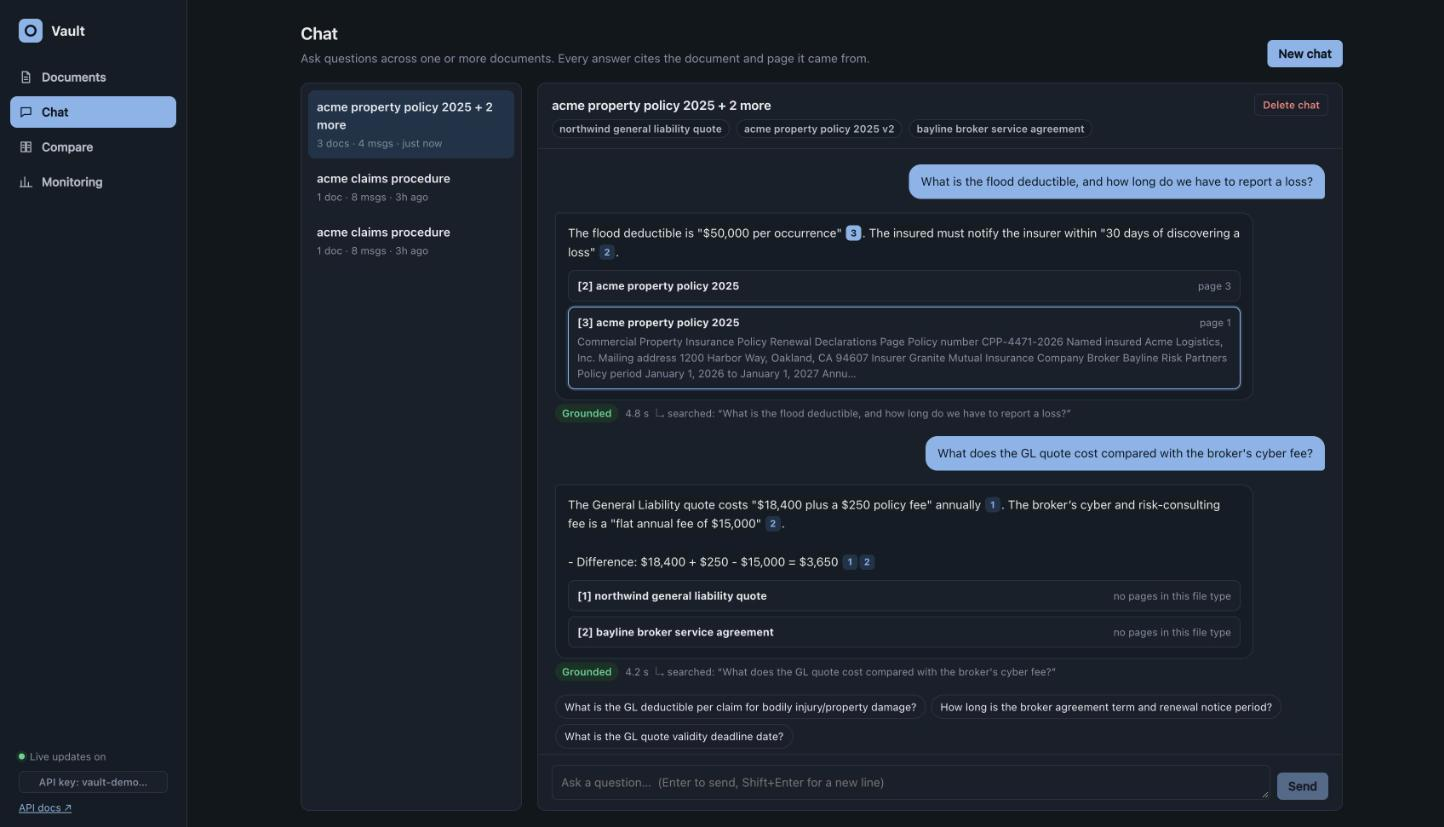
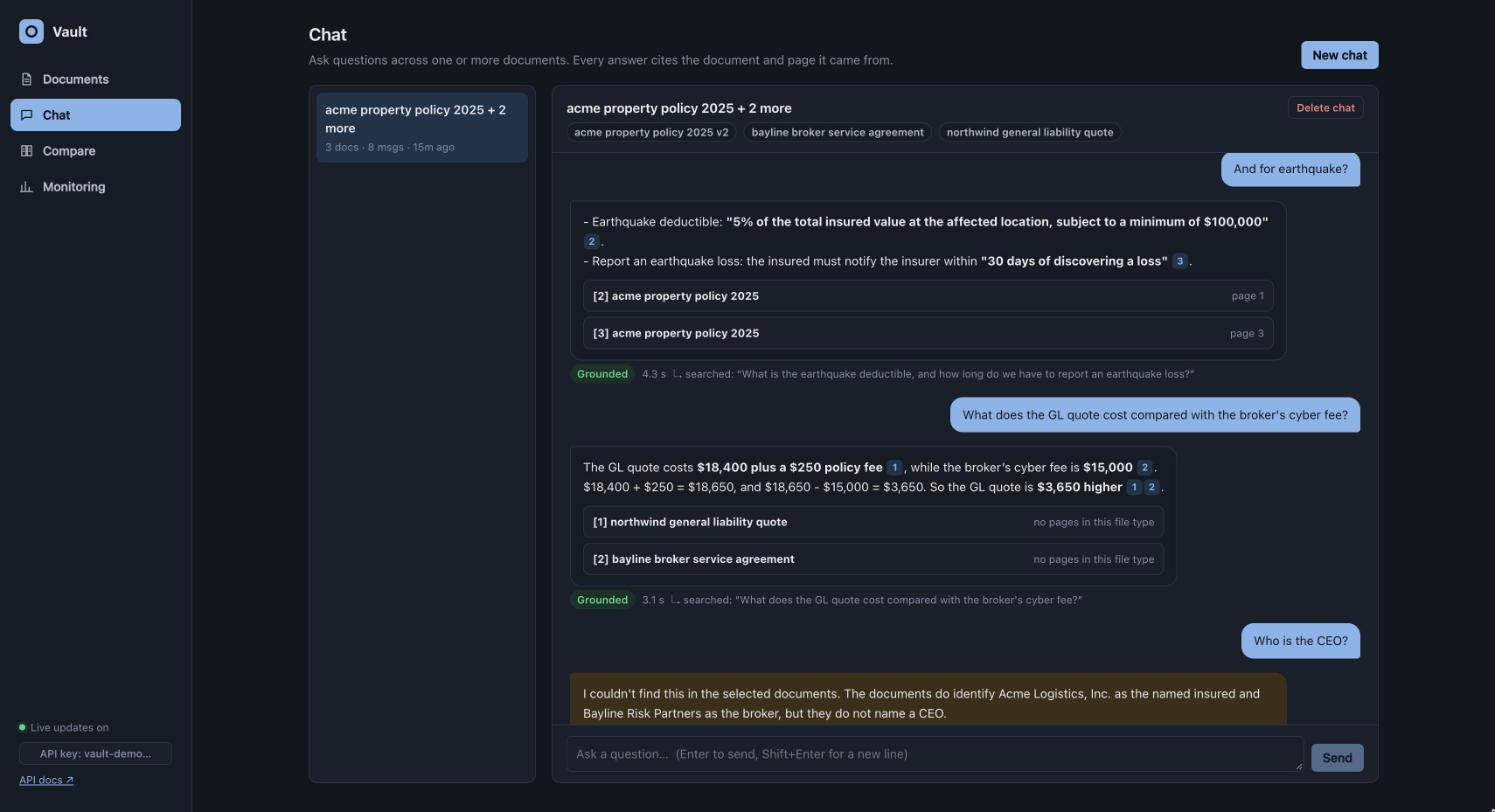
Docs: link the demo video, refresh the chat screenshot, stop tracking local caches

diff --git a/README.md b/README.md
@@ -17,6 +17,8 @@ Upload documents, get AI insights, and **chat with them in natural language, wit
 make up            # → UI on http://localhost:9700 · API docs on http://localhost:9700/docs · API key: vault-demo-key
 ```
 
+**Demo video (3 min):** [docs/demo.mp4](docs/demo.mp4): uploads and failures, insights, a new version, multi-turn chat with citations, comparison and monitoring, on the live app with real AI calls.
+
 ![Chat with citations](docs/screenshots/chat.png)
 
 More screenshots: [documents and insights](docs/screenshots/documents.png) · [comparison](docs/screenshots/compare.png) · [monitoring](docs/screenshots/monitoring.png)
@@ -109,7 +111,7 @@ make dev-ui       # terminal 3 (optional): UI dev server on :5173 with hot reloa
 | Start chat session · Ask question · Chat history · Multi-turn context | `POST /chat/sessions` (one or many documents) · `POST /messages` and `/messages/stream` · `GET /chat/sessions/{id}` · follow-ups rewritten into standalone questions using the last 6 turns |
 | Document statistics API · Processing metrics API | `GET /metrics/documents` (counts, success rate, p50/p95, per-stage timings, errors, queue wait), plus `/metrics/ai-usage`, `/metrics/api`, `/metrics/system` |
 | Data storage (metadata and status, insights, conversations, messages with citations, processing metrics, performance data) | `documents`, `document_insights` + `document_summaries`, `chat_sessions`, `chat_messages` (citations + retrieval trace), `processing_runs` + `processing_stage_runs`, `request_metrics` + `ai_usage` (§5) |
-| Demo | The five-minute tour above, and the demo video |
+| Demo | [The demo video](docs/demo.mp4) and the five-minute tour above |
 
 **Every bonus point:** multi-document chat · intelligent follow-up suggestions · summary customisation (length, focus, tone) · automated categorisation and tagging · sentiment and key-insight extraction · comparative analysis · a simple web UI · real-time updates over WebSocket · smart caching (embeddings and answers in Redis) · pgvector · streaming chat over SSE · 149 tests · cost tracking and optimisation · rate limiting and quotas · document version tracking · batch processing optimisations · structured logging and observability · health checks and monitoring endpoints. Where each lives:
 
@@ -461,7 +463,7 @@ The growth path beyond that (roughly 100k+ documents or many concurrent users), 
 | `make test` | 149 tests:<br/>• Units: parsing (incl. edge-case files), validation, chunking, RRF fusion, citation mapping, cost, the cache guard, the version change list<br/>• API integration on real Postgres + Redis: upload, duplicates, validation, failures, batch, versioning, download, summaries, reprocess, chat with citations, abstention, multi-turn, caches, SSE, follow-up checks, comparison, metrics, rate limits, body limits, job recovery, documented error responses | Free (fake AI) |
 | `make lint` | ruff + mypy, all passing | — |
 | `make smoke` | The full user journey against the real stack and model, with readable output | ≈ $0.03 |
-| `make eval` | 25 labelled questions over the samples:<br/>• answer accuracy<br/>• citation document and page accuracy<br/>• abstention accuracy (incl. off-topic and prompt injection)<br/>• multi-document questions and arithmetic over cited figures, including after earlier questions in the same chat<br/>• wrong amounts stated next to correct working<br/>• false-abstention rate<br/>• citation marks that lead nowhere<br/>• follow-ups that repeat the answer<br/>• latency and cost | ≈ $0.04 |
+| `make eval` | 25 labelled questions over the samples:<br/>• answer accuracy<br/>• citation document and page accuracy<br/>• abstention accuracy (incl. off-topic and prompt injection)<br/>• multi-document questions and arithmetic over cited figures, including after earlier questions in the same chat<br/>• wrong amounts stated next to correct working<br/>• false-abstention rate<br/>• citation marks that lead nowhere<br/>• follow-ups that repeat the answer<br/>• latency and cost | ≈ $0.05 |
 
 Every bug fix comes with a test that was first run against the old code and failed there.
 
@@ -493,7 +495,7 @@ backend/
   scripts/          entrypoint, sample generator, smoke test         evals/  RAG evaluation
 frontend/           React + Vite + TypeScript UI (built into the API image, served at /)
 samples/            sample documents (+ edge cases)
-docs/               screenshots
+docs/               screenshots and the demo video
 ```
 
 The rules are kept simple so changes are quick and safe (details in [AGENTS.md](AGENTS.md)):

diff --git a/AI_USAGE.md b/AI_USAGE.md
@@ -56,7 +56,7 @@ An AI agent writes code fast, so the controls were about making sure that code i
 7. **Real stack, not only mocks:** each slice was run against Postgres, Redis, the worker and real OpenAI calls.
 8. **Gates before any change is accepted:**
    - `make test`: 149 tests on a fake AI provider (no key needed, repeatable)
-   - `make lint`: ruff and mypy, plus the UI type-check and the database migration check
+   - `make lint`: ruff and mypy; the UI is type-checked in every Docker build
    - `make smoke`: the full user journey with the real models
    - `make eval`: 25 labelled questions with the real models, including a multi-turn chat
    - a click-through of every page in Chrome, and a run from a clean Docker build
